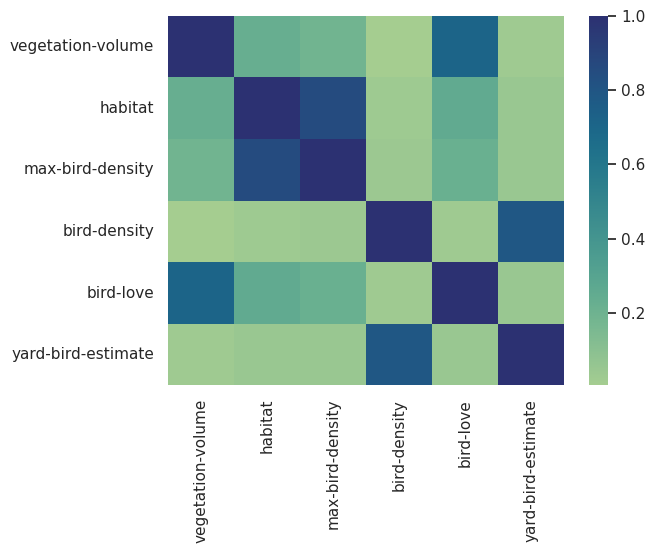
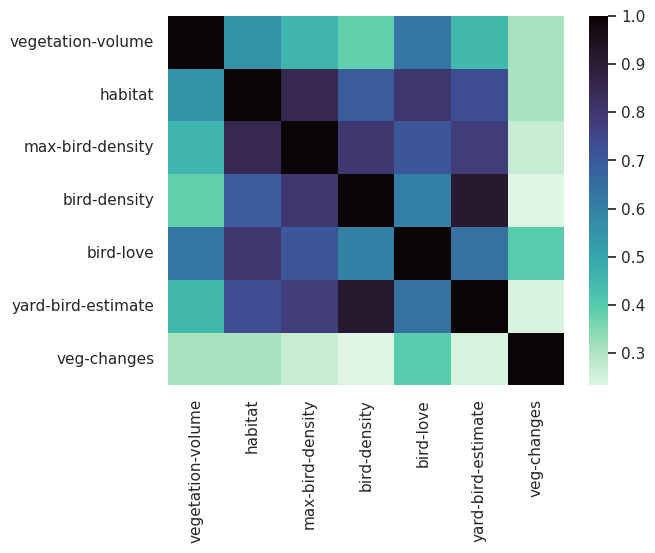
new pca tsne plots

diff --git a/analysis/clusters_correlation_tsne.py b/analysis/clusters_correlation_tsne.py
@@ -60,7 +60,7 @@ data_scaled = scaler.fit_transform(data)
 #correlation
 corr = data_scaled.corr()
 print(corr)
-sns.heatmap(corr,cmap='crest')
+sns.heatmap(corr,cmap='mako_r')
 plt.show()
 '''
 max bird | habitat = 85%
@@ -69,22 +69,27 @@ bird-dens | yard-bird = 78%
 
 '''
 # bird-density related to estimate (0.7) bird-love related to veg (0.6)
-palette = sns.color_palette("rocket")
+palette = sns.cubehelix_palette(start=2, rot=0, dark=0, light=.95,
+                                as_cmap=True)
+#palette = sns.color_palette("crest",as_cmap=True)
+palette2 = ["#e5f5f9","#2ca25f"]
+palette3 = ["#e5f5f9","#99d8c9","#2ca25f"]
+palette5 = ["#edf8fb","#b2e2e2","#66c2a4","#2ca25f","#006d2c"]
 # PCA
 from sklearn.decomposition import PCA
-pca = PCA(n_components=2) # used 6 initially
+pca = PCA(n_components=6) # used 6 initially
 pcafit = pca.fit(data_scaled)
 perc = pcafit.explained_variance_ratio_
 print("explained variance: ",perc)
 pca_trans = pca.fit_transform(data_scaled)
-# plot to show PCA feature importance
+# plot to show PCA component importance
 perc_x = range(1,len(perc)+1)
 plt.plot(perc_x,perc,"ro--")
 plt.xlabel("Number of Components")
 plt.ylabel("Explained variance")
 plt.show()
 
-# PCA plot in 3D since 3 components are important
+# PCA plot
 data["PC1"] = pca_trans[:,0]
 data["PC2"] = pca_trans[:,1]
 #data["PC3"] = pca_trans[:,2]
@@ -92,20 +97,11 @@ data["PC2"] = pca_trans[:,1]
 fig = plt.figure()
 #ax = fig.add_subplot(projection='3d') #for 3d plot
 ax = fig.add_subplot()
-scatter = ax.scatter(data["PC1"],data["PC2"],#data["PC3"],
-                     c=data["bird-density"],cmap="crest")
-ax.legend(*scatter.legend_elements(),title='bird density')
-ax.set_xlabel("PC1")
-ax.set_ylabel("PC2")
-#ax.set_zlabel("PC3")
-plt.show()
-## attitudes/vegetation difficult to interpret no grouping pattern
-fig = plt.figure()
-#ax = fig.add_subplot(projection='3d') # for 3d plot
-
-scatter = ax.scatter(data["PC1"],data["PC2"],#data["PC3"],
-                     c=data["yard-bird-estimate"], cmap="crest")
-ax.legend(*scatter.legend_elements(),title='bird estimate')
+ax = sns.scatterplot(data=data,x="PC1",y="PC2",edgecolors='0.4',
+                     hue=data["bird-love-cnd"],palette='crest')
+legend = ax.legend(loc='upper right', fontsize = '10', frameon=True, 
+                   framealpha=0.3, facecolor='0.7', title='attitude',
+                   title_fontsize='10',borderpad=0.3)
 ax.set_xlabel("PC1")
 ax.set_ylabel("PC2")
 #ax.set_zlabel("PC3")
@@ -113,10 +109,10 @@ plt.show()
 
 # PC feature importance
 ##PC1
-x_ticks = ["Vegetation volume", "Habitat", "K", "Bird density","Attitudes",
-           "Bird population estimate","veg-changes"]
+x_ticks = ["Veg volume", "Habitat", "K", "Bird density","Attitudes",
+           "Bird estimate","veg changes"]
 groups = ['PC1','PC2']#['PC1','PC2','PC3']
-df = pd.DataFrame(pcafit.components_, index=groups,columns=x_ticks)
+df = pd.DataFrame(abs(pcafit.components_), index=groups,columns=x_ticks)
 #make it long so that seaborn can plot it
 df_long = df.reset_index().melt(id_vars='index',
                                 var_name='variable',
@@ -125,13 +121,13 @@ df_long = df_long.rename(columns={'index': 'PCA'})
 ax = sns.barplot(data=df_long,x="variable",y='Explained variance',
                  hue='PCA',palette='mako')
 plt.xlabel('')
-plt.xticks(rotation=45)
+plt.xticks(rotation=15)
 plt.tight_layout()
-plt.legend(loc='lower right')
+plt.legend(loc='upper left')
 plt.show()
 
-# t-sne
-tsne = TSNE(perplexity=40).fit_transform(data_scaled)
+#---------- t-sne -------------
+tsne = TSNE(perplexity=35).fit_transform(data_scaled)
 print(tsne)
 data['tsne1'] = tsne[:,0]
 data['tsne2'] = tsne[:,1]
@@ -140,13 +136,14 @@ sns.set_theme(style='whitegrid')
 palette = sns.cubehelix_palette(start=2, rot=0, dark=0, light=.95,
                                 as_cmap=True)
 #palette = sns.color_palette("crest",as_cmap=True)
-palette2 = ["#e5f5f9","#2ca25f"]
+palette2 = ["#7bccc4","#0868ac"]
 palette3 = ["#e5f5f9","#99d8c9","#2ca25f"]
 palette5 = ["#edf8fb","#b2e2e2","#66c2a4","#2ca25f","#006d2c"]
+palette6 = ["#f0f9e8","#ccebc5","#a8ddb5","#7bccc4","#43a2ca","#0868ac"]
 
 # bird-dens
 ax = sns.scatterplot(data=data,x="tsne1",y='tsne2',hue='bird-density',
-                palette=palette,edgecolor= "0.4") #str 0.0 - 1.0 is grayscale
+                palette=palette3,edgecolor= "0.4") #str 0.0 - 1.0 is grayscale
 legend = ax.legend(loc='upper right', fontsize = '10', frameon=True, 
                    framealpha=0.3, facecolor='0.7', title='Birds in yard',
                    title_fontsize='10',borderpad=0.3)
@@ -154,15 +151,15 @@ plt.show()
 
 # carrying capacity
 ax = sns.scatterplot(data=data,x="tsne1",y='tsne2',hue='max-bird-density',
-                palette=palette,edgecolor= "0.4") #str 0.0 - 1.0 is grayscale
+                palette=palette3,edgecolor= "0.4") #str 0.0 - 1.0 is grayscale
 legend = ax.legend(loc='upper right', fontsize = '10', frameon=True, 
-                   framealpha=0.3, facecolor='0.7', title='K',
+                   framealpha=0.3, facecolor='0.7', title='max-bird',
                    title_fontsize='10',borderpad=0.3)
 plt.show()
 
 # yard-bird-estimate
 ax = sns.scatterplot(data=data,x="tsne1",y='tsne2',hue='yard-bird-estimate',
-                palette=palette,edgecolor= "0.4") #str 0.0 - 1.0 is grayscale
+                palette=palette5,edgecolor= "0.4") #str 0.0 - 1.0 is grayscale
 legend = ax.legend(loc='upper right', fontsize = '10', frameon=True, 
                    framealpha=0.3, facecolor='0.7', title='Bird Estimate',
                    title_fontsize='10',borderpad=0.3)
@@ -185,20 +182,20 @@ data['habitat_condensed'] = pd.cut(data['habitat'],[0,50,100,150],
 '''
 
 data['habitat_condensed'] = pd.cut(data['habitat'],[0,25,50,75,100,150],
-                                   labels=["0-25","25-50","50-75",
-                                           "75-100","100-150"]) # 64 is the value for patches to have 1 bird
+                                   labels=["0-25","26-50","51-75",
+                                           "76-100","101-150"]) # 64 is the value for patches to have 1 bird
 ax = sns.scatterplot(data=data,x="tsne1",y='tsne2',hue='habitat_condensed',
-                palette=palette5,edgecolor= "0.4") #str 0.0 - 1.0 is grayscale
+                palette='mako_r',edgecolor= "0.2") #str 0.0 - 1.0 is grayscale
 legend = ax.legend(loc='upper right', fontsize = '10', frameon=True, 
                    framealpha=0.3, facecolor='0.7', title='Habitat',
                    title_fontsize='10',borderpad=0.3)
 plt.show()
 
 # veg-vol
-data['veg-vol-cnd'] = pd.cut(data['vegetation-volume'],[-1,2,4,6,8,10,12,14,16],
-                             labels=["0-2","2-4","4-6","6-8","8-10","10-12","12-14","14-16"])
+data['veg-vol-cnd'] = pd.cut(data['vegetation-volume'],[-1,4,8,12,16],
+                             labels=["0-4","5-8","9-12","12-16"])
 ax = sns.scatterplot(data=data,x='tsne1',y='tsne2',hue='veg-vol-cnd',
-                     palette='crest',edgecolor= "0.2") #str 0.0 - 1.0 is grayscale
+                     palette='mako_r',edgecolor= "0.2") #str 0.0 - 1.0 is grayscale
 legend = ax.legend(loc='upper right', fontsize = '10', frameon=True, 
                    framealpha=0.3, facecolor='0.7', title='Vegetation',
                    title_fontsize='10',borderpad=0.3)
@@ -206,7 +203,7 @@ plt.show()
 
 # veg-changes
 ax = sns.scatterplot(data=data,x="tsne1",y='tsne2',hue='veg-changes',
-                     palette='mako',edgecolor="0.2")
+                     palette='mako_r',edgecolor="0.2")
 legend = ax.legend(loc='upper right', fontsize = '10', frameon=True, 
                    framealpha=0.3, facecolor='0.7', title='Veg changes',
                    title_fontsize='10',borderpad=0.3)
@@ -215,7 +212,7 @@ plt.show()
 # with k-means
 from sklearn.cluster import KMeans
 from sklearn import metrics
-kmeans = KMeans(n_clusters = 3)
+kmeans = KMeans(n_clusters = 2)
 fit = kmeans.fit(X)
 data["labels"] = kmeans.labels_
 centroids = kmeans.cluster_centers_
@@ -223,7 +220,7 @@ silhouette = metrics.silhouette_score(X, data["labels"],metric='sqeuclidean')
 print("score: ",silhouette)
 
 ax = sns.scatterplot(data=data,x="tsne1",y='tsne2',hue='labels',
-                palette=palette3,edgecolor= "0.4") #str 0.0 - 1.0 is grayscale
+                palette="mako",edgecolor= "0.4") #str 0.0 - 1.0 is grayscale
 legend = ax.legend(loc='upper right', fontsize = '10', frameon=True, 
                    framealpha=0.3, facecolor='0.7', title='K Clusters',
                    title_fontsize='10',borderpad=0.3)
